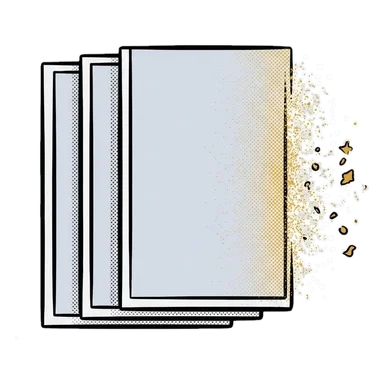
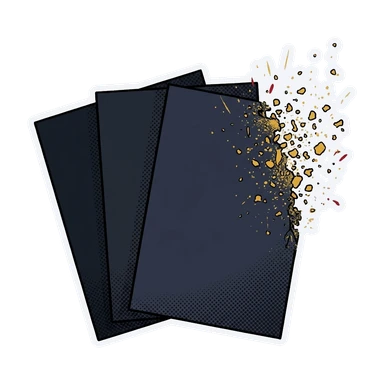
Immagini finali del design v16 e prompt di revisione del design system
- empty-filters, empty-search, err-toast sostituiti con le versioni del design; aggiunta err-shared (112px)
  nel dialog del planner condiviso, al posto delle icone segnaposto; niente alone scuro sulle quattro
- docs/PROMPT_REVISIONE_DESIGN.md: prompt per far consolidare il canvas (una fonte per componente,
  catalogo, archivio delle pagine di giro, un solo HANDOFF e CHANGELOG)

diff --git a/src/features/share/components/ImportSharedDialog/ImportSharedDialog.tsx b/src/features/share/components/ImportSharedDialog/ImportSharedDialog.tsx
@@ -1,6 +1,6 @@
-import { CloudOff, Link2Off } from "lucide-react";
 import { useState } from "react";
 import type { SharedPlanner } from "../../../../../shared/share";
+import artShared from "../../../../assets/err-shared.webp";
 import { Button } from "../../../../components/ui/Button";
 import { StateBox } from "../../../../components/ui/StateBox";
 import { Modal } from "../../../../components/ui/Modal";
@@ -122,7 +122,7 @@ function ImportContent({ code, onClose, ...preview }: ImportSharedDialogProps) {
       <StateBox
         layout="dialog"
         role="alert"
-        art={<Link2Off strokeWidth={1.5} />}
+        art={<img src={artShared} alt="" aria-hidden width={112} height={112} />}
         title={t("share.invalid.title")}
         actions={
           <Button variant="primary" size="lg" onClick={onClose}>
@@ -141,7 +141,7 @@ function ImportContent({ code, onClose, ...preview }: ImportSharedDialogProps) {
         key={state.attempt}
         layout="dialog"
         role="alert"
-        art={<CloudOff strokeWidth={1.5} />}
+        art={<img src={artShared} alt="" aria-hidden width={112} height={112} />}
         title={t("share.loadError.title")}
         actions={
           <>

diff --git a/src/components/ui/StateBox/StateBox.less b/src/components/ui/StateBox/StateBox.less
@@ -33,10 +33,6 @@
   }
 }
 
-[data-theme="dark"] .state-box__art img {
-  filter: drop-shadow(0 0 1.5px var(--ink));
-}
-
 .state-box__body {
   display: flex;
   flex: 1;

diff --git a/docs/PROMPT_REVISIONE_DESIGN.md b/docs/PROMPT_REVISIONE_DESIGN.md
@@ -1,0 +1,135 @@
+# Prompt: revisione e consolidamento del design system di Marvel Planner
+
+Incolla il testo qui sotto in Claude Design, insieme a `marvel-planner-completo.zip`. La cartella `docs/design/` del repository contiene le pagine originali del design system: allegala anche quella, perché lo zip completo contiene solo i file presenti sul disco di Claude Design e manca di pagine come `Toast`, `Textfield`, `Motion`, `Colors`, `Typography`, `Spacing`, `Progress`, `Spoiler box`.
+
+---
+
+## 0. Perché ti scrivo
+
+Negli ultimi giri ogni richiesta ha prodotto **pagine nuove** invece di correggere quelle esistenti. Il canvas ha oggi 14 pagine "di giro" (Accesso animazioni, Accesso recupero, Accesso roadmap, Accesso stati, Decisioni, Decisioni 2, Errori, Errori roadmap, Informativa planner, Pagina Film ritocchi, Pagine errore, Revisione codice, Stati inline, Vuoti e condivisi) accanto alle pagine originali del design system. Lo stesso componente è descritto in più posti con valori diversi, e io (Claude Code) non so più quale versione implementare. Questo giro **non aggiunge funzioni**: riduce, unifica e rende il canvas una fonte unica e affidabile.
+
+Ruolo che ti chiedo: **responsabile del design system**, non autore di mockup. Il tuo lavoro è mantenere poche pagine corrette, non produrne molte.
+
+## 1. Fonti di verità, in ordine
+
+1. `tokens.css`: unica fonte dei valori. Nessuna pagina ripete un valore: lo cita per nome di token.
+2. Le **pagine originali del design system** (fondamenta e componenti): sono la specifica. Se un componente esiste già lì, **aggiorna quella pagina**.
+3. Il **codice** (repository `igeod/marvel-planner`, ramo `main`): dice cosa è davvero implementato. Quando il canvas e il codice divergono, la divergenza va dichiarata, non risolta in silenzio.
+4. Le pagine "di giro" sono **registri temporanei**: sono dei log, non specifiche. Vanno assorbite e poi tolte.
+
+## 2. Regole di lavoro (valgono per tutta la sessione)
+
+1. **Non creare nuove pagine `.dc.html`.** Se pensi che serva una pagina nuova, scrivi perché e aspetta il mio sì. Le uniche eccezioni autorizzate sono: `Componenti` (catalogo, punto 4a) e `Archivio` (punto 4c).
+2. **Prima di toccare un componente, riapri la sua pagina esistente** e leggi cosa dice. Se la modifica è piccola, correggi quella pagina. Una correzione non è mai una pagina nuova.
+3. **Una pagina = una cosa.** Ogni pagina ha in testa quattro righe: "Fonte di verità per: …", "Implementato in: file del repository", "Differenze dal codice: nessuna | elenco", "Ultima modifica: data".
+4. **Non inventare.** Se un valore non è in `tokens.css`, segnalalo come "token mancante" invece di scriverlo a mano. Se non hai verificato qualcosa, scrivi "Non verificato" e fermati lì.
+5. **Non riaprire le decisioni chiuse** (elenco nel punto 6). Se pensi che una sia sbagliata, dimmelo in una riga con il motivo, e non cambiarla.
+6. **Lavora a passi con punto di controllo.** Dopo ogni passo del punto 5 fermati, riassumi cosa hai cambiato e cosa hai tolto, e aspetta il mio "vai".
+7. **Ogni modifica è un confronto**: scrivi "prima → dopo" con i valori, e il file di codice che cambia. Niente descrizioni vaghe.
+8. **Usa i controlli diretti per i ritocchi piccoli** (spaziatura, colore, testo) e la chat per i cambi di struttura. Non rigenerare una pagina intera per un valore.
+9. **Quando finisci, criticati**: rileggi il canvas come se fossi me, e scrivi i dubbi che hai su ciò che hai consegnato.
+10. Sii economico: l'inventario (passo 1) non modifica nulla e costa poco; fallo per primo.
+
+## 3. Cosa c'è, cosa manca, cosa si contraddice (fatti verificati sul codice e sullo zip)
+
+### 3.1 Lo stesso componente descritto in più posti
+
+| Componente                  | Dove è descritto oggi                                                                                                                                                                                                                                           | Problema                                                                                                                                                                                                                                                                                                                                                                                                                                                                                                                                                                              |
+| --------------------------- | --------------------------------------------------------------------------------------------------------------------------------------------------------------------------------------------------------------------------------------------------------------- | ------------------------------------------------------------------------------------------------------------------------------------------------------------------------------------------------------------------------------------------------------------------------------------------------------------------------------------------------------------------------------------------------------------------------------------------------------------------------------------------------------------------------------------------------------------------------------------- |
+| **Toast**                   | `Toast` originale (non nello zip), `ERRORI_SPEC.md` §4, `Stati inline`, `Vuoti e condivisi` (punto 4), `Accesso roadmap` ("Toast informativo"), `Accesso animazioni`, `Decisioni 2`                                                                             | L'originale definisce già: superficie ink in entrambi i temi, raggio 22px, altezza minima 56px, testo 16px/600, azione a pillola da 44px in oro, in basso al centro a 16px dal bordo (sopra la barra di avanzamento su mobile), 6s (8s con azione), pausa su hover e focus, `role="status"`, errori con `role="alert"` che restano fino alla chiusura; più i messaggi "Undo" per la lista e le varianti ospite/account. Le pagine nuove l'hanno ridisegnato con `--panel`, larghezza 440px, pila di 3, icona da 36px, spunta nel cerchio oro. Non è chiaro quale sia lo stato finale. |
+| **Stato vuoto / errore**    | `System states` (nessuna illustrazione, titolo `--fs-h3` 800, centrato, padding `--sp-12`), `Toast` originale (tile icona 56px, titolo 20px/800), `Vuoti e condivisi` (riquadro con illustrazione 96px, `--r-xl`, senza ombra), `Stati inline`, `Pagine errore` | Tre stili di stato vuoto in tre pagine. Il codice usa il terzo (`StateBox`).                                                                                                                                                                                                                                                                                                                                                                                                                                                                                                          |
+| **Spinner dei pulsanti**    | `Buttons` ("lo spinner gira per 1,6 s"), `Decisioni`/`Decisioni 2` (800ms), `Motion`                                                                                                                                                                            | 1,6s contro 800ms. Il codice usa 800ms (1,6s solo con movimento ridotto).                                                                                                                                                                                                                                                                                                                                                                                                                                                                                                             |
+| **Anello di focus**         | `tokens.css` (`--focus` = `--accent`, rosso, `outline-offset` 3px), `Decisioni 2` (ink in tema chiaro), `Revisione codice` (offset 0 sui campi di testo)                                                                                                        | Tre definizioni. Il codice: `--focus-color` (ink in chiaro, oro in scuro) e offset 0 sui campi.                                                                                                                                                                                                                                                                                                                                                                                                                                                                                       |
+| **Spaziatura dei campi**    | `Accesso roadmap` (etichetta 6px, messaggio 4px, gap 12px), `Revisione codice` (8px e 8px), `Textfield` originale                                                                                                                                               | Il codice usa 8px/8px, gap 8px, 36px da campo a etichetta, 16px al pulsante.                                                                                                                                                                                                                                                                                                                                                                                                                                                                                                          |
+| **Ombre**                   | `Decisioni 2` (livello 0 piatto, 1 `--shadow-card` solo StatusPage, 2 `--shadow-pop`), `ERRORI_SPEC.md`, `Pagine errore`, `Stati inline`                                                                                                                        | Il codice ha ancora `--shadow-card` su `.card` (base.less) e sulla card del film.                                                                                                                                                                                                                                                                                                                                                                                                                                                                                                     |
+| **Messaggi sotto il campo** | `Accesso roadmap`, `Accesso stati`, `Revisione codice`                                                                                                                                                                                                          | Errore, avviso e suggerimento sono tutti 14px/20px con icona da 18px nel codice; le pagine più vecchie li danno a 13px per suggerimenti e avviso.                                                                                                                                                                                                                                                                                                                                                                                                                                     |
+| **Documenti di consegna**   | `HANDOFF.md`, `CHANGES_FOR_CODE.md` (quattro giri), `DA_IMPLEMENTARE.md` (tre round), `ERRORI_SPEC.md`, `PROFILE_POPUP_SPEC.md`, `REPORT_FASE_A.md`, `LEGGIMI.txt`, `PROMPT_CLAUDE_CODE.md`                                                                     | Otto documenti che si sovrappongono.                                                                                                                                                                                                                                                                                                                                                                                                                                                                                                                                                  |
+
+### 3.2 `tokens.css` è indietro rispetto alle decisioni e al codice
+
+- Nel codice ci sono 13 token che `tokens.css` non ha: `--focus-color`, `--toast-shadow`, `--track-panel`, `--track-surface`, `--fs-h4`, `--fs-h1-sm`, `--fs-xl`, `--fs-hero`, `--fs-wordmark`, `--bar-h-lg`, `--floating-progress-clearance`, `--floating-progress-gap`, `--floating-progress-height`.
+- `--bar-h-lg` è dichiarato "eliminato" in `CHANGES_FOR_CODE.md` (terzo giro) ma è ancora nel codice. Tienilo fuori dal canvas; lo tolgo io dal codice.
+- `--focus` in `tokens.css` vale ancora `var(--accent)` in chiaro: contraddice `Decisioni 2` e il codice.
+- I valori che coincidono differiscono solo per formato (maiuscole, spazi): è rumore, non una differenza.
+- Rigenera `tokens.css` dal codice (`src/styles/tokens.less`, elenco dei token in `:root`, `.light-tokens` e `.dark-tokens`) e dammi il diff.
+
+### 3.3 Asset
+
+- In `canvas/assets/` restano `err-404.png`, `err-429.png`, `err-hulk.png` (circa 1 MB l'uno) che il codice non usa: `err-hulk` è stato tolto, e i WebP sono quelli giusti. Togli i PNG.
+- Le quattro illustrazioni nuove sono in `assets/images/` (`err-shared`, `empty-filters`, `empty-search`, `err-toast`). Hanno già il contorno chiaro `#F2F4F8`: **niente alone scuro** su queste quattro (resta solo su `err-404/429/500/maintenance`).
+- Il marchio è in `assets/brand/` (favicon SVG e ICO, apple-touch-icon, og-image) ed è già nel codice.
+
+### 3.4 Cose che il codice fa e il canvas non dice (documentale)
+
+- **Spoiler box**: le fonti (icona con le informazioni) restano sempre visibili; è sfocato solo il testo.
+- **Cambio vista del popup di accesso**: uscita 120ms, entrata 180ms con scorrimento di 12px, altezza animata, `overflow: clip` con margine di 4px durante il cambio d'altezza.
+- **Toast**: la pila rispetta un massimo di 3, l'errore persistente non viene mai espulso da uno informativo, lo stesso `id` aggiorna sul posto, il timer si ferma su hover e focus, Esc chiude.
+- **429 nel login**: il modulo si blocca per il tempo che manda il server (intestazione `Retry-After`/`X-Retry-After`); senza un numero non invento un'attesa.
+- **Recupero password**: tutto il client esiste ma è spento da `VITE_PASSWORD_RESET`; mancano email e server.
+- **Pagina film su mobile**: "Dove guardare" è chiuso nel pannello di vetro sotto 40em.
+- **Informativa del planner (`PlannerGuide`)**: il codice è ancora il vecchio (card in fondo con titolo display da 40px). Il nuovo accordion di `Informativa planner` non è ancora implementato.
+
+## 4. Cosa devi consegnare
+
+**a. `Componenti`: un catalogo** (una sola pagina). Una riga per componente e variante: nome, varianti, taglie, token, stati (normale, hover, press, focus, disabilitato, caricamento, errore), pagina di riferimento, file di codice, e uno stato tra **allineato**, **diverge** (con i valori del codice a fianco), **solo nel canvas**, **solo nel codice**. Includi almeno: Button (variant e size), Field (TextField, PasswordField, messaggio, requisito), FormError, Modal e dialog, Toast, StateBox, LoadError (blocco e riga), StatusPage, ErrorCode, Status, SelectField, Switch, ChoiceGroup, Tooltip e InfoTip, ProgressMeter e le quattro tracce di avanzamento, PosterImage, SpoilerBox, Chevron, AuthResult, ResendButton, PasswordRequirement.
+
+**b. Pagine originali aggiornate** (non nuove), ciascuna con il confronto prima → dopo:
+
+| Pagina           | Cosa assorbe                                                                                                                                                                                                              |
+| ---------------- | ------------------------------------------------------------------------------------------------------------------------------------------------------------------------------------------------------------------------- |
+| `Toast`          | Toast di conferma, errore di salvataggio persistente, messaggi "Undo" e ospite/account, toast informativo dopo accesso e registrazione, icona (`err-toast`), comportamento in pila, posizione con la barra di avanzamento |
+| `System states`  | Stato vuoto illustrato (filtri, ricerca), errore di caricamento (blocco e riga), link condiviso non valido o in errore, `StatusPage` (404, 500, manutenzione), regola unica sulle ombre                                   |
+| `Buttons`        | Spinner 800ms (1,6s con movimento ridotto), varianti `danger`/`dark`, regola per taglia, i 6 cambi dei pulsanti già decisi                                                                                                |
+| `Textfield`      | Spaziatura 8/8/8, anello a filo (offset 0), messaggi 14px/20px/18px, avviso blocco maiuscole con triangolo, errore sui campi per credenziali sbagliate, `labelAction`                                                     |
+| `Motion`         | Cambio vista, spinner, un solo keyframe `pulse` a 1,4s, `reveal-in` 6px, durata e curva di ogni movimento                                                                                                                 |
+| `Colors` / token | `--focus-color`, `--track-panel`, `--track-surface`, `--toast-shadow`, tracce a 3:1 con i contrasti                                                                                                                       |
+| `Typography`     | Cinque token nuovi della scala, con l'elenco dei valori che ciascuno unisce                                                                                                                                               |
+| `Progress`       | Le quattro tracce vuote a 3:1                                                                                                                                                                                             |
+| `Navigation`     | Header con i controlli estesi da 48em                                                                                                                                                                                     |
+| `Spoiler box`    | Box "credits" adattivo (262px solo con due o più scene), fonti sempre visibili                                                                                                                                            |
+| `Pagina Film`    | "Dove guardare" ripiegato su mobile                                                                                                                                                                                       |
+| `Accessibility`  | Focus in `--ink` in chiaro, bersagli da 44px (wordmark incluso)                                                                                                                                                           |
+| `Images`         | Le quattro illustrazioni finali, il marchio, la regola sull'alone                                                                                                                                                         |
+
+**c. `Archivio`**: sposta lì (o elimina) le pagine di giro dopo averle assorbite: `Accesso animazioni`, `Accesso recupero`, `Accesso roadmap`, `Accesso stati`, `Decisioni`, `Decisioni 2`, `Errori`, `Errori roadmap`, `Pagine errore`, `Stati inline`, `Vuoti e condivisi`, `Revisione codice`, `Pagina Film ritocchi`. Eccezioni: **`Informativa planner`** resta come specifica dell'accordion finché non è implementato, e `Accesso *` contiene il flusso di login e recupero password finché non lo assorbi in due pagine pulite (`Popup di accesso`, `Recupero password`, aggiorna l'Index). Per ogni pagina archiviata scrivi dove sono finiti i suoi contenuti.
+
+**d. Un solo `HANDOFF.md` e un solo `CHANGELOG.md`**: il primo descrive lo stato attuale in un posto solo (componenti, token, regole, immagini, differenze aperte con il codice); il secondo è il registro dei giri, dal più recente. Togli `CHANGES_FOR_CODE.md`, `DA_IMPLEMENTARE.md`, `ERRORI_SPEC.md`, `PROFILE_POPUP_SPEC.md`, `REPORT_FASE_A.md`, i `LEGGIMI` e `PROMPT_CLAUDE_CODE.md` dopo averne assorbito il contenuto. Il documento di consegna per Claude Code è una sola cosa: `HANDOFF.md`.
+
+**e. `tokens.css` rigenerato** dal codice, con il diff rispetto a quello di oggi.
+
+**f. Un elenco "Divergenze aperte"** (massimo 15 righe). Per ciascuna: cosa dice il canvas, cosa fa il codice, le due opzioni, la tua raccomandazione e il costo. Sono le sole decisioni che spettano a me.
+
+## 5. Passi, con punto di controllo dopo ciascuno
+
+1. **Inventario (non modificare nulla).** Elenco di tutte le pagine e i documenti; per ogni componente di §4a le pagine che lo descrivono e i valori che dichiarano; tabella delle contraddizioni (parti dalla §3.1 e aggiungine); le pagine che propongo di assorbire e dove. Fermati e aspetta il mio "vai".
+2. **Toast e stati** (famiglia 1): aggiorna `Toast` e `System states`; assorbi `Errori`, `Errori roadmap`, `Pagine errore`, `Stati inline`, `Vuoti e condivisi`. Un'unica specifica di toast e un'unica specifica degli stati. Fermati.
+3. **Campi, pulsanti, movimento** (famiglia 2): `Textfield`, `Buttons`, `Motion`; assorbi `Revisione codice` e `Accesso animazioni`. Fermati.
+4. **Popup di accesso e recupero password**: due pagine pulite, assorbi `Accesso roadmap`, `Accesso stati`, `Accesso recupero`. Fermati.
+5. **Layout e film**: `Navigation`, `Pagina Film`, `Spoiler box`, `Progress`; assorbi `Decisioni`, `Decisioni 2`, `Pagina Film ritocchi`. Fermati.
+6. **Token, tipografia, immagini, accessibilità**: `tokens.css`, `Colors`, `Typography`, `Images`, `Accessibility`; pulizia degli asset (§3.3). Fermati.
+7. **Catalogo, `HANDOFF.md`, `CHANGELOG.md`, `Archivio`**, aggiornamento dell'`Index` (conta le pagine che restano). Autocritica (regola 9).
+
+## 6. Decisioni chiuse (non riaprire)
+
+- Focus: `--ink` in chiaro, oro in scuro; sui campi di testo offset 0 (l'anello sporge 3px).
+- Spaziatura dei campi nel popup: etichetta, messaggio e gap 8px; 36px da campo a etichetta successiva; 16px dall'ultimo campo al pulsante.
+- Messaggio sotto il campo: 14px, interlinea 20px, icona 18px; errore 700 `--danger-text`, avviso e suggerimento 500 `--ink-2`; l'avviso del blocco maiuscole usa il triangolo.
+- Errore di credenziali sbagliate: sui campi, un solo messaggio sotto la password, nessun banner.
+- Spinner 800ms lineare (1,6s con movimento ridotto); un solo keyframe `pulse` 1,4s, opacità 0,6; `reveal-in` 6px.
+- Ombre: livello 0 piatto, livello 1 `--shadow-card` solo su StatusPage, livello 2 `--shadow-pop` su ciò che si sovrappone; nessuna ombra sui riquadri di stato.
+- Colore dell'azione principale: rosso in chiaro, oro in scuro; il pulsante oro sulla carta rossa ha un anello di 2px in `--ink-static`.
+- Animazione del cambio vista del popup (120/180ms, 12px) e altezza animata.
+- Header: controlli estesi da 48em; progresso e prossimo titolo affiancati da 48em.
+- Scala tipografica: i cinque token nuovi e le unioni dei valori; nessun `font-size` numerico fuori da `tokens.css` tranne i `clamp` con `cqi/cqw` dell'hero del film.
+- Anello a filo sul campo di ricerca (un solo anello, niente bordo interno).
+- Il recupero password resta spento finché non c'è il server; la verifica email è opzionale e non si implementa.
+- Immagini: le quattro scelte in `assets/images/`, senza alone scuro; `err-hulk` eliminato.
+- Marchio: la "M" a linea spezzata con il nodo oro.
+
+## 7. Verifica prima di consegnare
+
+Per ogni pagina toccata: nessun overflow a 360px, 820px e 1440px; tema chiaro e scuro; le cinque lingue (it, en, fr, es, de; il tedesco è il più lungo); un solo h1 per pagina; contrasto AA con la tabella dei valori; movimento ridotto descritto; stati normale, hover, press, focus, disabilitato, caricamento ed errore dove esistono. Scrivi in coda ciò che **non** hai potuto controllare, con il motivo.
+
+## 8. Come mi rispondi
+
+Dopo ogni passo: (1) cosa hai cambiato (prima → dopo, con i valori e i file di codice), (2) cosa hai tolto o spostato, (3) cosa non è verificato, (4) cosa mi serve da me. Niente altro. Se non capisci qualcosa, chiedi invece di decidere.
